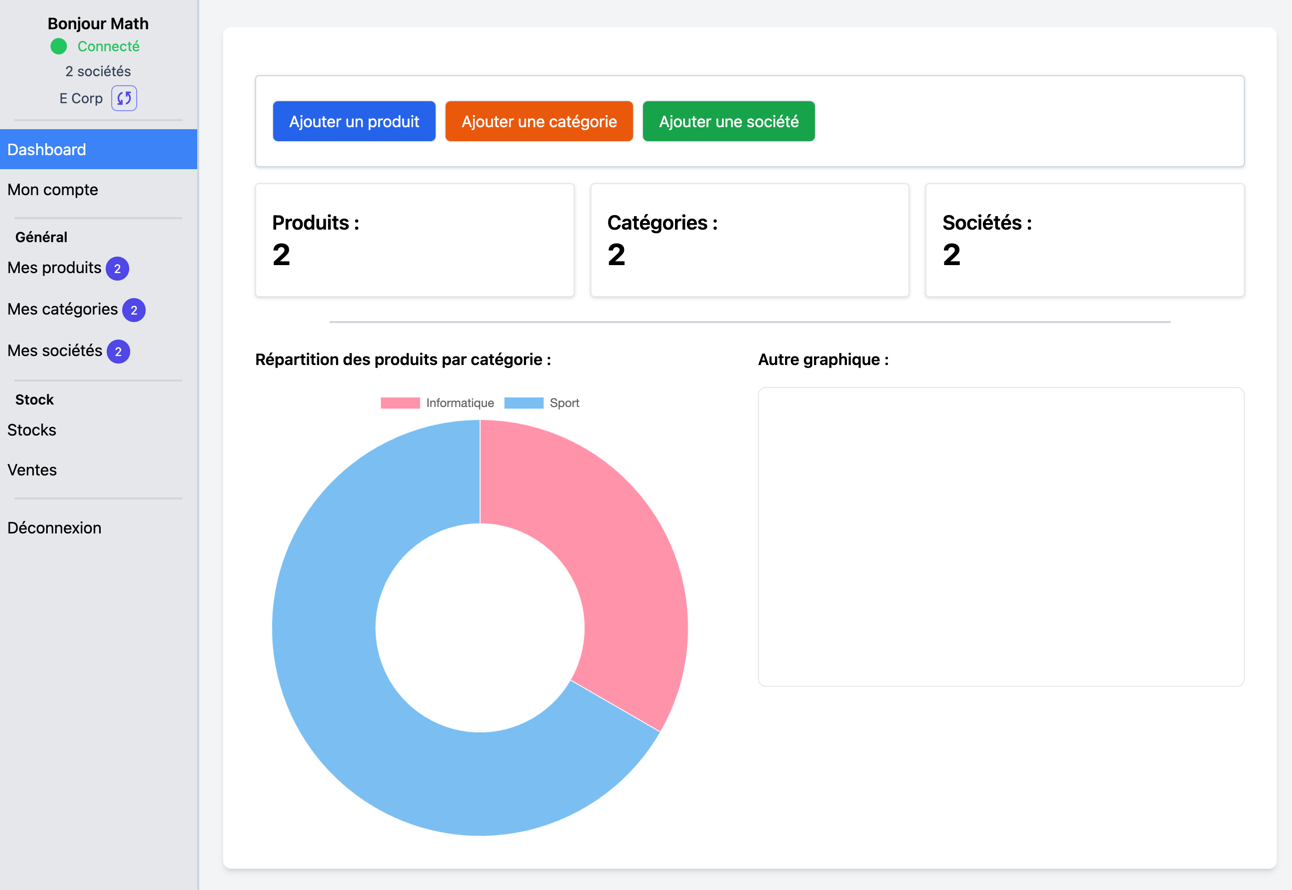
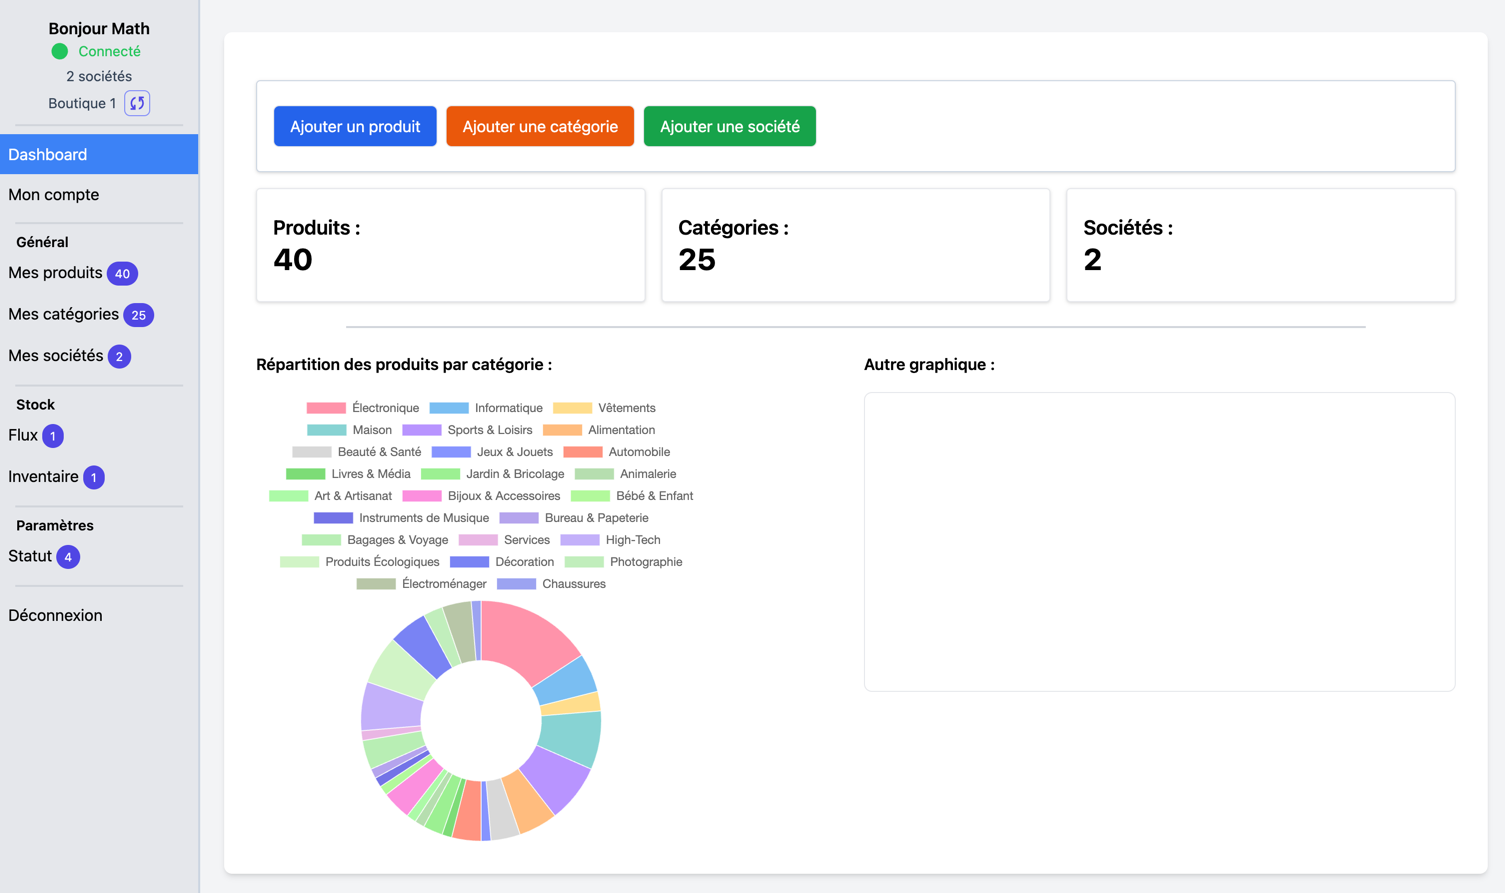
update screen & readme

diff --git a/README.md b/README.md
@@ -66,5 +66,16 @@ Affichage des données de façon lisible et agréable pour l'utilisateur avec la
 ## Vue catalogue produits
 ![catalogue-product](./demo/list-product.png)
 
+![catalogue-product](./demo/list-product-2.png)
+
 ## Vue détaillée produit
-![detail-product](./demo/detail-product.png)`
+![detail-product](./demo/detail-product.png)
+
+## Update produit 
+![update-product](./demo/update-product.png)
+
+## Flux de commande
+![order](./demo/flux.png)
+
+## Inventaire
+![inventory](./demo/inventory.png)
